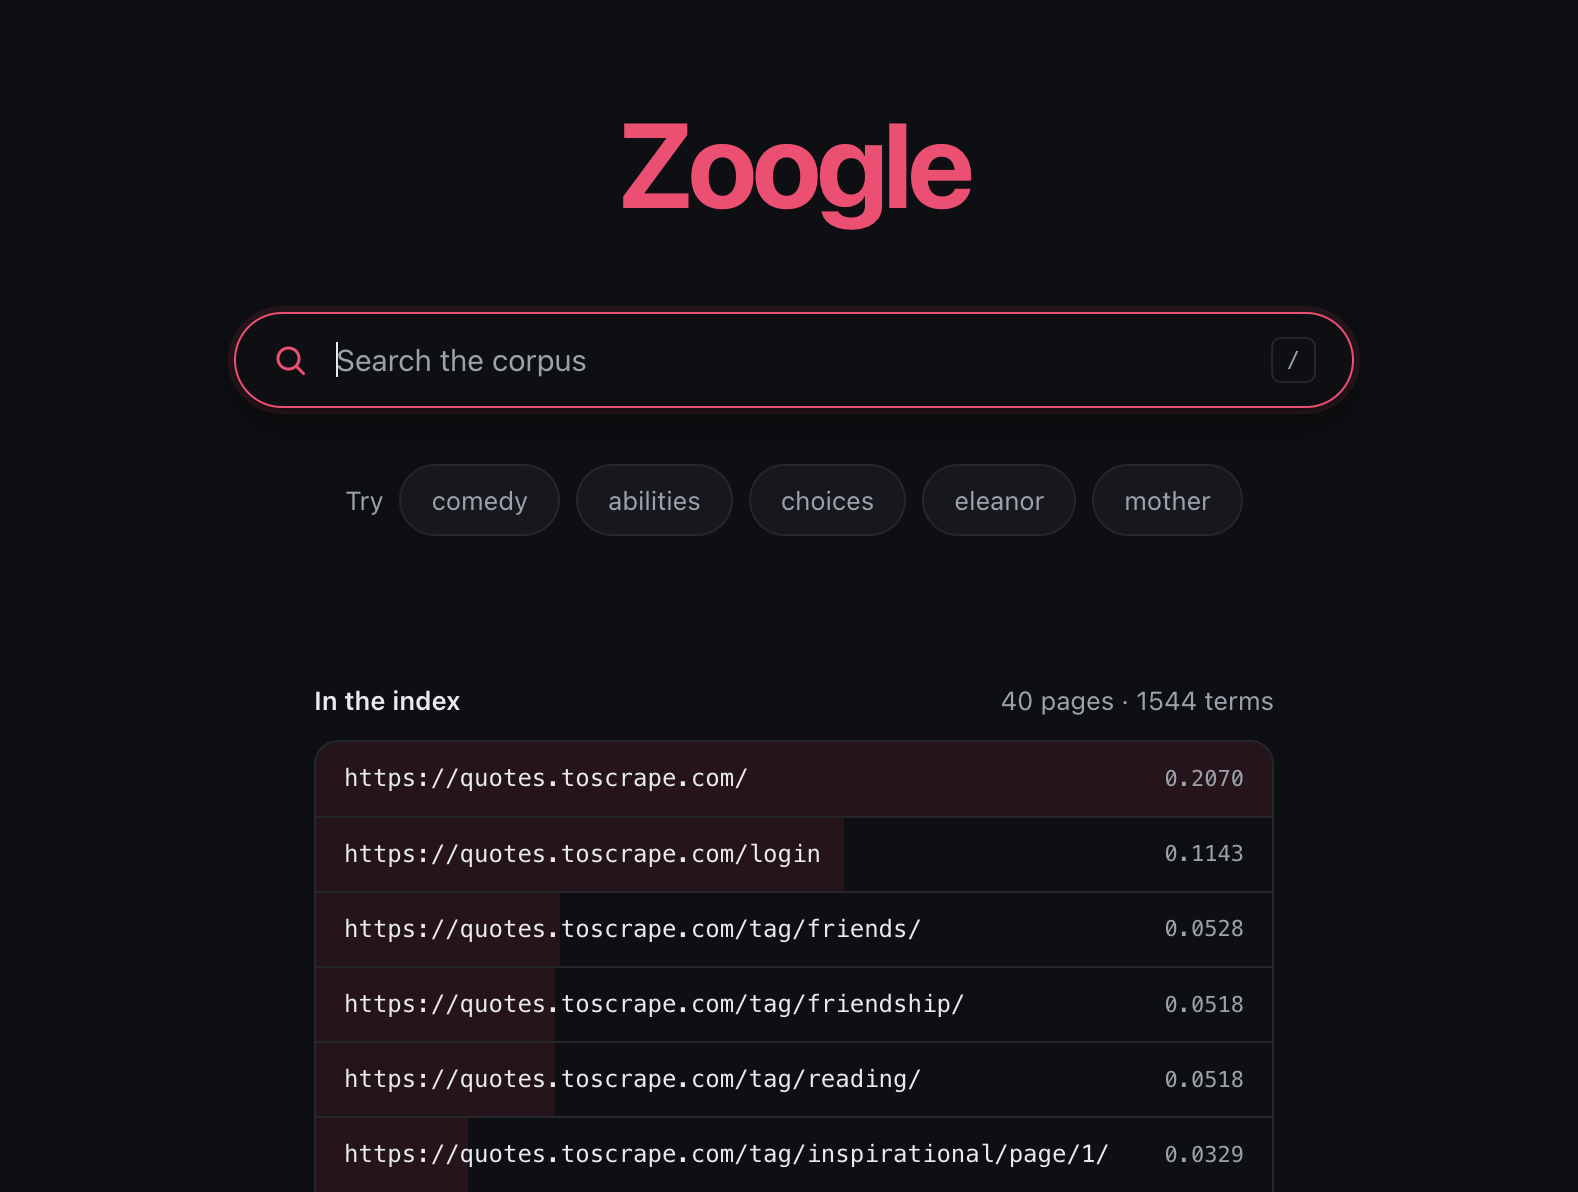
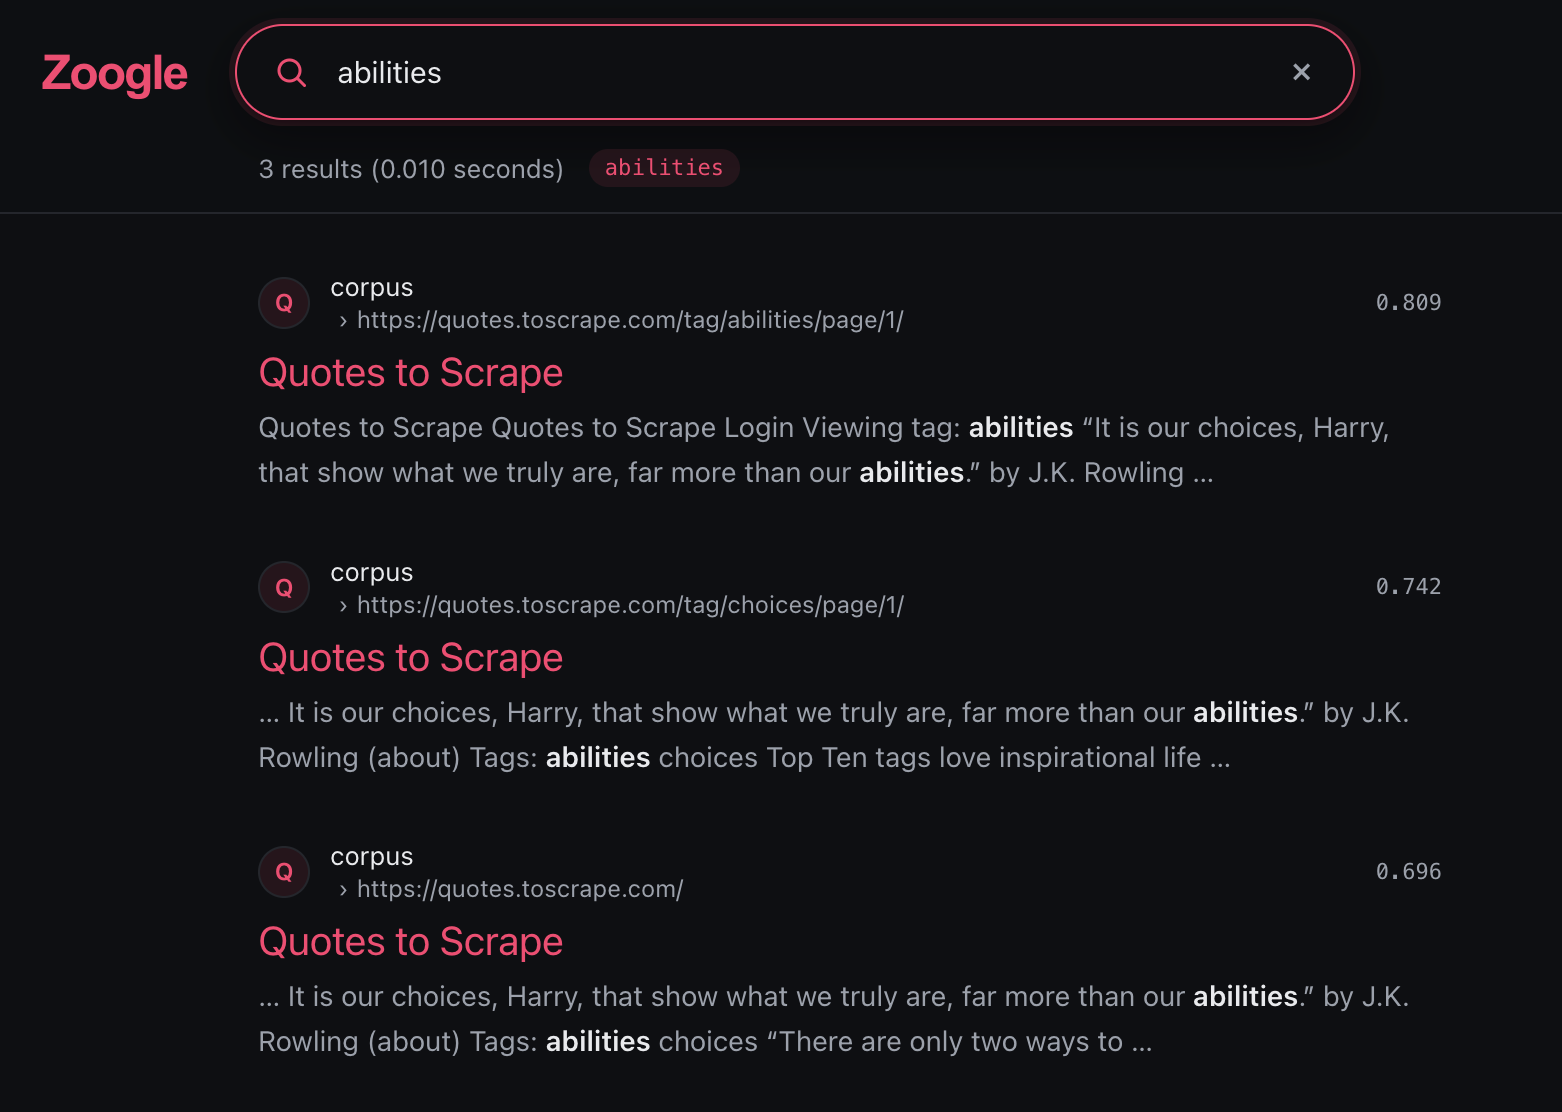
feat: Update README to include screenshots of implementation

diff --git a/README.md b/README.md
@@ -9,6 +9,29 @@ The central principle: a search engine does not query the live web on each reque
 crawls and indexes content ahead of time, then answers every query with a fast lookup
 against that precomputed index.
 
+## Screenshots
+
+![Zoogle home view — search box, derived suggestions, and the indexed corpus ranked by PageRank authority](docs/images/home.png)
+
+The landing view, with 40 pages crawled from `quotes.toscrape.com`. The suggestion
+chips are read off the index rather than hardcoded, so they describe whatever corpus
+is loaded. Each row in the corpus list is shaded by its PageRank authority — the
+homepage leads at 0.2070, and `/login` sits second purely because every page links
+to it from the navigation.
+
+![Zoogle results for "abilities" — three ranked results with highlighted snippets and blended relevance scores](docs/images/results.png)
+
+Results for `abilities`, one of the suggestions from the landing page. The pink chip
+under the search box is the *normalized token* the engine actually searched for, which
+is not always what was typed. Bold text marks the matched terms, positioned by sliding
+a 30-token window over each document to find the passage that covers the query best.
+Scores on the right are BM25 relevance blended with PageRank authority.
+
+Every result here is titled "Quotes to Scrape" because that site uses one `<title>` for
+all 40 pages — a genuine artifact of real-world data, and a good illustration of why
+titles can't carry ranking on their own. The URLs, snippets, and scores still separate
+them cleanly.
+
 ## Features
 
 - **Crawler** — downloads pages, extracts links, and traverses the link graph while
